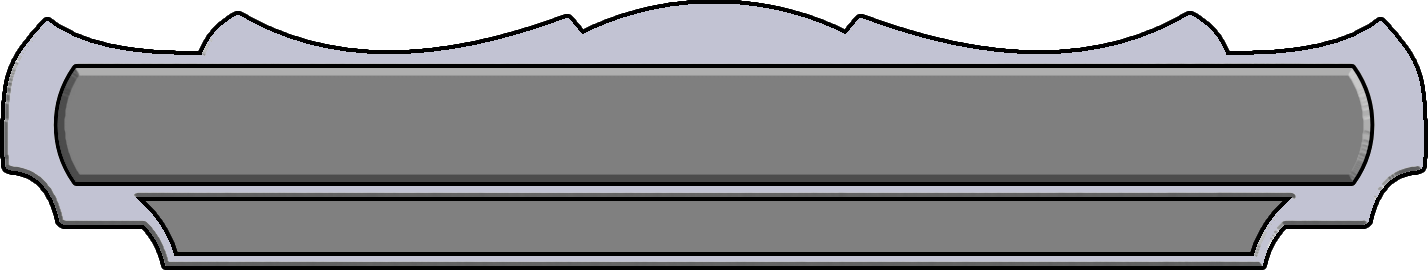
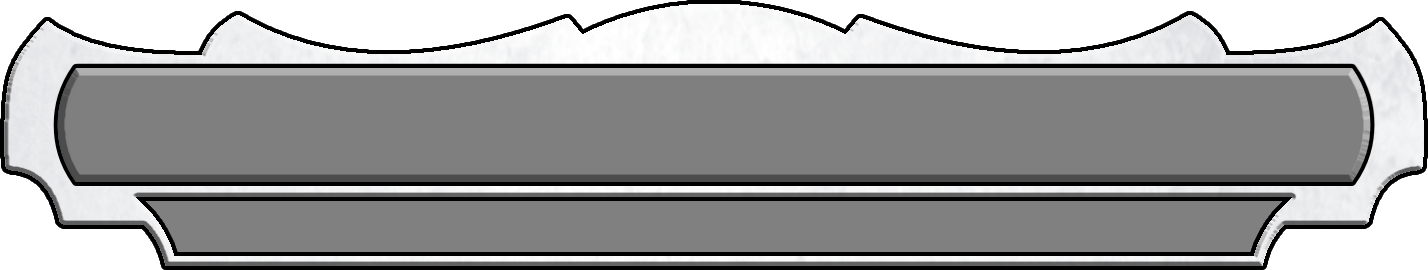
feat: Add alternate artifact nickname frames and titles

Changed region(s): [[0.0, 0.0, 1.0, 0.9778]]

diff --git a/data/scripts/versions/m15Promo/nickname.js b/data/scripts/versions/m15Promo/nickname.js
@@ -17,6 +17,7 @@ if (!loadedVersions.includes('m15Promo/nickname')) {
 		['Green Nickname Title', '/data/images/cardImages/m15/m15NicknameTitleG.png', 74/1500, 85/2100, 1352/1500, 221/2100, ['Full', 'Nickname Title (m15)', 'Title (m15)', 'Nickname True Name (m15)']],
 		['Multicolored Nickname Title', '/data/images/cardImages/m15/m15NicknameTitleM.png', 74/1500, 85/2100, 1352/1500, 221/2100, ['Full', 'Nickname Title (m15)', 'Title (m15)', 'Nickname True Name (m15)']],
 		['Artifact Nickname Title', '/data/images/cardImages/m15/m15NicknameTitleA.png', 74/1500, 85/2100, 1352/1500, 221/2100, ['Full', 'Nickname Title (m15)', 'Title (m15)', 'Nickname True Name (m15)']],
+		['Artifact (Alt) Nickname Title', '/data/images/cardImages/m15/m15NicknameTitleAAlt.png', 74/1500, 85/2100, 1352/1500, 221/2100, ['Full', 'Nickname Title (m15)', 'Title (m15)', 'Nickname True Name (m15)']],
 		['Land Nickname Title', '/data/images/cardImages/m15/m15NicknameTitleL.png', 74/1500, 85/2100, 1352/1500, 221/2100, ['Full', 'Nickname Title (m15)', 'Title (m15)', 'Nickname True Name (m15)']],
 		['White Nickname Legend Crown', '/data/images/cardImages/m15/m15NicknameCrownW.png', 36/1500, 36/2100, 1428/1500, 270/2100, ['Full', 'Nickname Legend Crown (m15)', 'Title (m15)', 'Nickname True Name (m15)']],
 		['Blue Nickname Legend Crown', '/data/images/cardImages/m15/m15NicknameCrownU.png', 36/1500, 36/2100, 1428/1500, 270/2100, ['Full', 'Nickname Legend Crown (m15)', 'Title (m15)', 'Nickname True Name (m15)']],
@@ -25,6 +26,7 @@ if (!loadedVersions.includes('m15Promo/nickname')) {
 		['Green Nickname Legend Crown', '/data/images/cardImages/m15/m15NicknameCrownG.png', 36/1500, 36/2100, 1428/1500, 270/2100, ['Full', 'Nickname Legend Crown (m15)', 'Title (m15)', 'Nickname True Name (m15)']],
 		['Multicolored Nickname Legend Crown', '/data/images/cardImages/m15/m15NicknameCrownM.png', 36/1500, 36/2100, 1428/1500, 270/2100, ['Full', 'Nickname Legend Crown (m15)', 'Title (m15)', 'Nickname True Name (m15)']],
 		['Artifact Nickname Legend Crown', '/data/images/cardImages/m15/m15NicknameCrownA.png', 36/1500, 36/2100, 1428/1500, 270/2100, ['Full', 'Nickname Legend Crown (m15)', 'Title (m15)', 'Nickname True Name (m15)']],
+		['Artifact (Alt) Nickname Legend Crown', '/data/images/cardImages/m15/m15NicknameCrownAAlt.png', 36/1500, 36/2100, 1428/1500, 270/2100, ['Full', 'Nickname Legend Crown (m15)', 'Title (m15)', 'Nickname True Name (m15)']],
 		['Land Nickname Legend Crown', '/data/images/cardImages/m15/m15NicknameCrownL.png', 36/1500, 36/2100, 1428/1500, 270/2100, ['Full', 'Nickname Legend Crown (m15)', 'Title (m15)', 'Nickname True Name (m15)']],
 		['White Nickname Power/Toughness', '/data/images/cardImages/m15/m15NicknamePTW.png', 1136/1500, 1858/2100, 282/1500, 154/2100, ['Full']],
 		['Blue Nickname Power/Toughness', '/data/images/cardImages/m15/m15NicknamePTU.png', 1136/1500, 1858/2100, 282/1500, 154/2100, ['Full']],

diff --git a/data/scripts/versions/m15/nickname.js b/data/scripts/versions/m15/nickname.js
@@ -17,6 +17,7 @@ if (!loadedVersions.includes('m15/nickname')) {
 		['Green Nickname Title', '/data/images/cardImages/m15/m15NicknameTitleG.png', 74/1500, 85/2100, 1352/1500, 221/2100, ['Full', 'Nickname Title (m15)', 'Title (m15)', 'Nickname True Name (m15)']],
 		['Multicolored Nickname Title', '/data/images/cardImages/m15/m15NicknameTitleM.png', 74/1500, 85/2100, 1352/1500, 221/2100, ['Full', 'Nickname Title (m15)', 'Title (m15)', 'Nickname True Name (m15)']],
 		['Artifact Nickname Title', '/data/images/cardImages/m15/m15NicknameTitleA.png', 74/1500, 85/2100, 1352/1500, 221/2100, ['Full', 'Nickname Title (m15)', 'Title (m15)', 'Nickname True Name (m15)']],
+		['Artifact (Alt) Nickname Title', '/data/images/cardImages/m15/m15NicknameTitleAAlt.png', 74/1500, 85/2100, 1352/1500, 221/2100, ['Full', 'Nickname Title (m15)', 'Title (m15)', 'Nickname True Name (m15)']],
 		['Land Nickname Title', '/data/images/cardImages/m15/m15NicknameTitleL.png', 74/1500, 85/2100, 1352/1500, 221/2100, ['Full', 'Nickname Title (m15)', 'Title (m15)', 'Nickname True Name (m15)']],
 		['White Nickname Legend Crown', '/data/images/cardImages/m15/m15NicknameCrownW.png', 36/1500, 36/2100, 1428/1500, 270/2100, ['Full', 'Nickname Legend Crown (m15)', 'Title (m15)', 'Nickname True Name (m15)']],
 		['Blue Nickname Legend Crown', '/data/images/cardImages/m15/m15NicknameCrownU.png', 36/1500, 36/2100, 1428/1500, 270/2100, ['Full', 'Nickname Legend Crown (m15)', 'Title (m15)', 'Nickname True Name (m15)']],
@@ -25,6 +26,7 @@ if (!loadedVersions.includes('m15/nickname')) {
 		['Green Nickname Legend Crown', '/data/images/cardImages/m15/m15NicknameCrownG.png', 36/1500, 36/2100, 1428/1500, 270/2100, ['Full', 'Nickname Legend Crown (m15)', 'Title (m15)', 'Nickname True Name (m15)']],
 		['Multicolored Nickname Legend Crown', '/data/images/cardImages/m15/m15NicknameCrownM.png', 36/1500, 36/2100, 1428/1500, 270/2100, ['Full', 'Nickname Legend Crown (m15)', 'Title (m15)', 'Nickname True Name (m15)']],
 		['Artifact Nickname Legend Crown', '/data/images/cardImages/m15/m15NicknameCrownA.png', 36/1500, 36/2100, 1428/1500, 270/2100, ['Full', 'Nickname Legend Crown (m15)', 'Title (m15)', 'Nickname True Name (m15)']],
+		['Artifact (Alt) Nickname Legend Crown', '/data/images/cardImages/m15/m15NicknameCrownAAlt.png', 36/1500, 36/2100, 1428/1500, 270/2100, ['Full', 'Nickname Legend Crown (m15)', 'Title (m15)', 'Nickname True Name (m15)']],
 		['Land Nickname Legend Crown', '/data/images/cardImages/m15/m15NicknameCrownL.png', 36/1500, 36/2100, 1428/1500, 270/2100, ['Full', 'Nickname Legend Crown (m15)', 'Title (m15)', 'Nickname True Name (m15)']],
 		['White Nickname Power/Toughness', '/data/images/cardImages/m15/m15NicknamePTW.png', 1136/1500, 1858/2100, 282/1500, 154/2100, ['Full']],
 		['Blue Nickname Power/Toughness', '/data/images/cardImages/m15/m15NicknamePTU.png', 1136/1500, 1858/2100, 282/1500, 154/2100, ['Full']],

diff --git a/js/frames/packM15Nickname.js b/js/frames/packM15Nickname.js
@@ -9,7 +9,7 @@ var bounds3 = {x:0.0494, y:0.0405, width:0.9014, height:0.1053};
 availableFrames = [
 	{name:'White Frame', src:'/img/frames/m15/nickname/m15NicknameFrameW.png', masks:masks},
 	{name:'Blue Frame', src:'/img/frames/m15/nickname/m15NicknameFrameU.png', masks:masks},
-	{name:'Black Frame', src:'/img/frames/m15/nickname/m15NicknameFrameB.png', masks:masks},
+	{name:'Black Frame', src:'/img/frames/m15/nickname/m\15NicknameFrameB.png', masks:masks},
 	{name:'Red Frame', src:'/img/frames/m15/nickname/m15NicknameFrameR.png', masks:masks},
 	{name:'Green Frame', src:'/img/frames/m15/nickname/m15NicknameFrameG.png', masks:masks},
 	{name:'Multicolored Frame', src:'/img/frames/m15/nickname/m15NicknameFrameM.png', masks:masks},
@@ -22,6 +22,7 @@ availableFrames = [
 	{name:'Green Crown', src:'/img/frames/m15/nickname/m15NicknameCrownG.png', masks:masks2, bounds:bounds2},
 	{name:'Multicolored Crown', src:'/img/frames/m15/nickname/m15NicknameCrownM.png', masks:masks2, bounds:bounds2},
 	{name:'Artifact Crown', src:'/img/frames/m15/nickname/m15NicknameCrownA.png', masks:masks2, bounds:bounds2},
+	{name:'Artifact (Alt) Crown', src:'/img/frames/m15/nickname/m15NicknameCrownAAlt.png', masks:masks2, bounds:bounds2},
 	{name:'Land Crown', src:'/img/frames/m15/nickname/m15NicknameCrownL.png', masks:masks2, bounds:bounds2},
 	{name:'White Title', src:'/img/frames/m15/nickname/m15NicknameTitleW.png', masks:masks3, bounds:bounds3},
 	{name:'Blue Title', src:'/img/frames/m15/nickname/m15NicknameTitleU.png', masks:masks3, bounds:bounds3},
@@ -30,6 +31,7 @@ availableFrames = [
 	{name:'Green Title', src:'/img/frames/m15/nickname/m15NicknameTitleG.png', masks:masks3, bounds:bounds3},
 	{name:'Multicolored Title', src:'/img/frames/m15/nickname/m15NicknameTitleM.png', masks:masks3, bounds:bounds3},
 	{name:'Artifact Title', src:'/img/frames/m15/nickname/m15NicknameTitleA.png', masks:masks3, bounds:bounds3},
+	{name:'Artifact (Alt) Title', src:'/img/frames/m15/nickname/m15NicknameTitleAAlt.png', masks:masks3, bounds:bounds3},
 	{name:'Land Title', src:'/img/frames/m15/nickname/m15NicknameTitleL.png', masks:masks3, bounds:bounds3},
 	{name:'White Power/Toughness', src:'/img/frames/m15/nickname/m15NicknamePTW.png', bounds:bounds},
 	{name:'Blue Power/Toughness', src:'/img/frames/m15/nickname/m15NicknamePTU.png', bounds:bounds},

diff --git a/js/frames/packPromoNickname.js b/js/frames/packPromoNickname.js
@@ -22,6 +22,7 @@ availableFrames = [
 	{name:'Green Crown', src:'/img/frames/m15/nickname/m15NicknameCrownG.png', masks:masks2, bounds:bounds2},
 	{name:'Multicolored Crown', src:'/img/frames/m15/nickname/m15NicknameCrownM.png', masks:masks2, bounds:bounds2},
 	{name:'Artifact Crown', src:'/img/frames/m15/nickname/m15NicknameCrownA.png', masks:masks2, bounds:bounds2},
+	{name:'Artifact (Alt) Crown', src:'/img/frames/m15/nickname/m15NicknameCrownAAlt.png', masks:masks2, bounds:bounds2},
 	{name:'Land Crown', src:'/img/frames/m15/nickname/m15NicknameCrownL.png', masks:masks2, bounds:bounds2},
 	{name:'White Title', src:'/img/frames/m15/nickname/m15NicknameTitleW.png', masks:masks3, bounds:bounds3},
 	{name:'Blue Title', src:'/img/frames/m15/nickname/m15NicknameTitleU.png', masks:masks3, bounds:bounds3},
@@ -30,6 +31,7 @@ availableFrames = [
 	{name:'Green Title', src:'/img/frames/m15/nickname/m15NicknameTitleG.png', masks:masks3, bounds:bounds3},
 	{name:'Multicolored Title', src:'/img/frames/m15/nickname/m15NicknameTitleM.png', masks:masks3, bounds:bounds3},
 	{name:'Artifact Title', src:'/img/frames/m15/nickname/m15NicknameTitleA.png', masks:masks3, bounds:bounds3},
+	{name:'Artifact (Alt) Title', src:'/img/frames/m15/nickname/m15NicknameTitleAAlt.png', masks:masks3, bounds:bounds3},
 	{name:'Land Title', src:'/img/frames/m15/nickname/m15NicknameTitleL.png', masks:masks3, bounds:bounds3},
 	{name:'White Power/Toughness', src:'/img/frames/m15/nickname/m15NicknamePTW.png', bounds:bounds},
 	{name:'Blue Power/Toughness', src:'/img/frames/m15/nickname/m15NicknamePTU.png', bounds:bounds},

diff --git a/js/frames/packIkoNicknameShort.js b/js/frames/packIkoNicknameShort.js
@@ -24,6 +24,7 @@ availableFrames = [
 	{name:'Green Crown', src:'/img/frames/m15/nickname/m15NicknameCrownG.png', masks:masks2, bounds:bounds2},
 	{name:'Multicolored Crown', src:'/img/frames/m15/nickname/m15NicknameCrownM.png', masks:masks2, bounds:bounds2},
 	{name:'Artifact Crown', src:'/img/frames/m15/nickname/m15NicknameCrownA.png', masks:masks2, bounds:bounds2},
+	{name:'Artifact (Alt) Crown', src:'/img/frames/m15/nickname/m15NicknameCrownAAlt.png', masks:masks2, bounds:bounds2},
 	{name:'Land Crown', src:'/img/frames/m15/nickname/m15NicknameCrownL.png', masks:masks2, bounds:bounds2},
 	{name:'White Title', src:'/img/frames/m15/nickname/m15NicknameTitleW.png', masks:masks3, bounds:bounds3},
 	{name:'Blue Title', src:'/img/frames/m15/nickname/m15NicknameTitleU.png', masks:masks3, bounds:bounds3},
@@ -32,6 +33,7 @@ availableFrames = [
 	{name:'Green Title', src:'/img/frames/m15/nickname/m15NicknameTitleG.png', masks:masks3, bounds:bounds3},
 	{name:'Multicolored Title', src:'/img/frames/m15/nickname/m15NicknameTitleM.png', masks:masks3, bounds:bounds3},
 	{name:'Artifact Title', src:'/img/frames/m15/nickname/m15NicknameTitleA.png', masks:masks3, bounds:bounds3},
+	{name:'Artifact (Alt) Title', src:'/img/frames/m15/nickname/m15NicknameTitleAAlt.png', masks:masks3, bounds:bounds3},
 	{name:'Land Title', src:'/img/frames/m15/nickname/m15NicknameTitleL.png', masks:masks3, bounds:bounds3},
 
 	{name:'White Power/Toughness', src:'/img/frames/m15/nickname/m15NicknamePTW.png', bounds:bounds},

diff --git a/js/frames/packM15Nickname-2.js b/js/frames/packM15Nickname-2.js
@@ -10,6 +10,7 @@ availableFrames = [
 	{name:'Green Nickname', src:'/img/frames/m15/nickname/addons/m15NicknameTitleG.png', masks:masks3, bounds:bounds3},
 	{name:'Multicolored Nickname', src:'/img/frames/m15/nickname/addons/m15NicknameTitleM.png', masks:masks3, bounds:bounds3},
 	{name:'Artifact Nickname', src:'/img/frames/m15/nickname/addons/m15NicknameTitleA.png', masks:masks3, bounds:bounds3},
+	{name:'Artifact (Alt) Nickname', src:'/img/frames/m15/nickname/addons/m15NicknameTitleAAlt.png', masks:masks3, bounds:bounds3},
 	{name:'Land Nickname', src:'/img/frames/m15/nickname/addons/m15NicknameTitleL.png', masks:masks3, bounds:bounds3},
 	{name:'Colorless Nickname', src:'/img/frames/m15/nickname/addons/m15NicknameTitleC.png', masks:masks3, bounds:bounds3}
 	];
